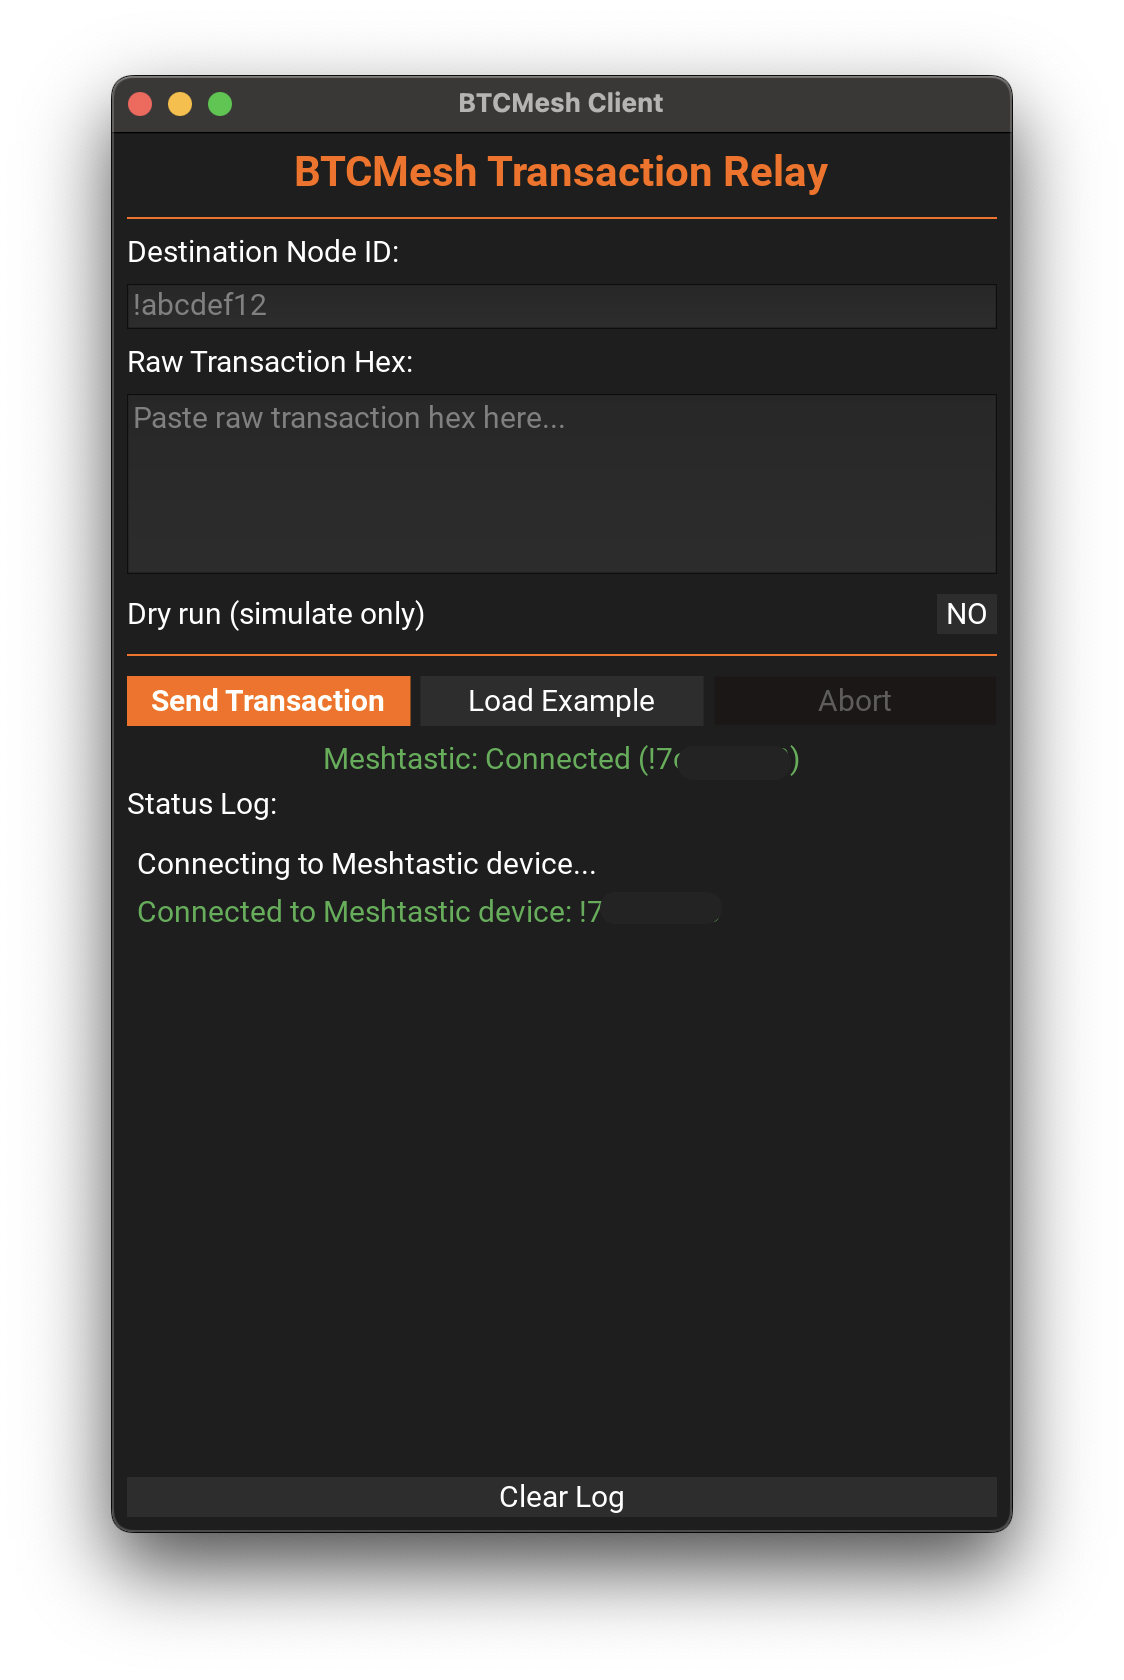
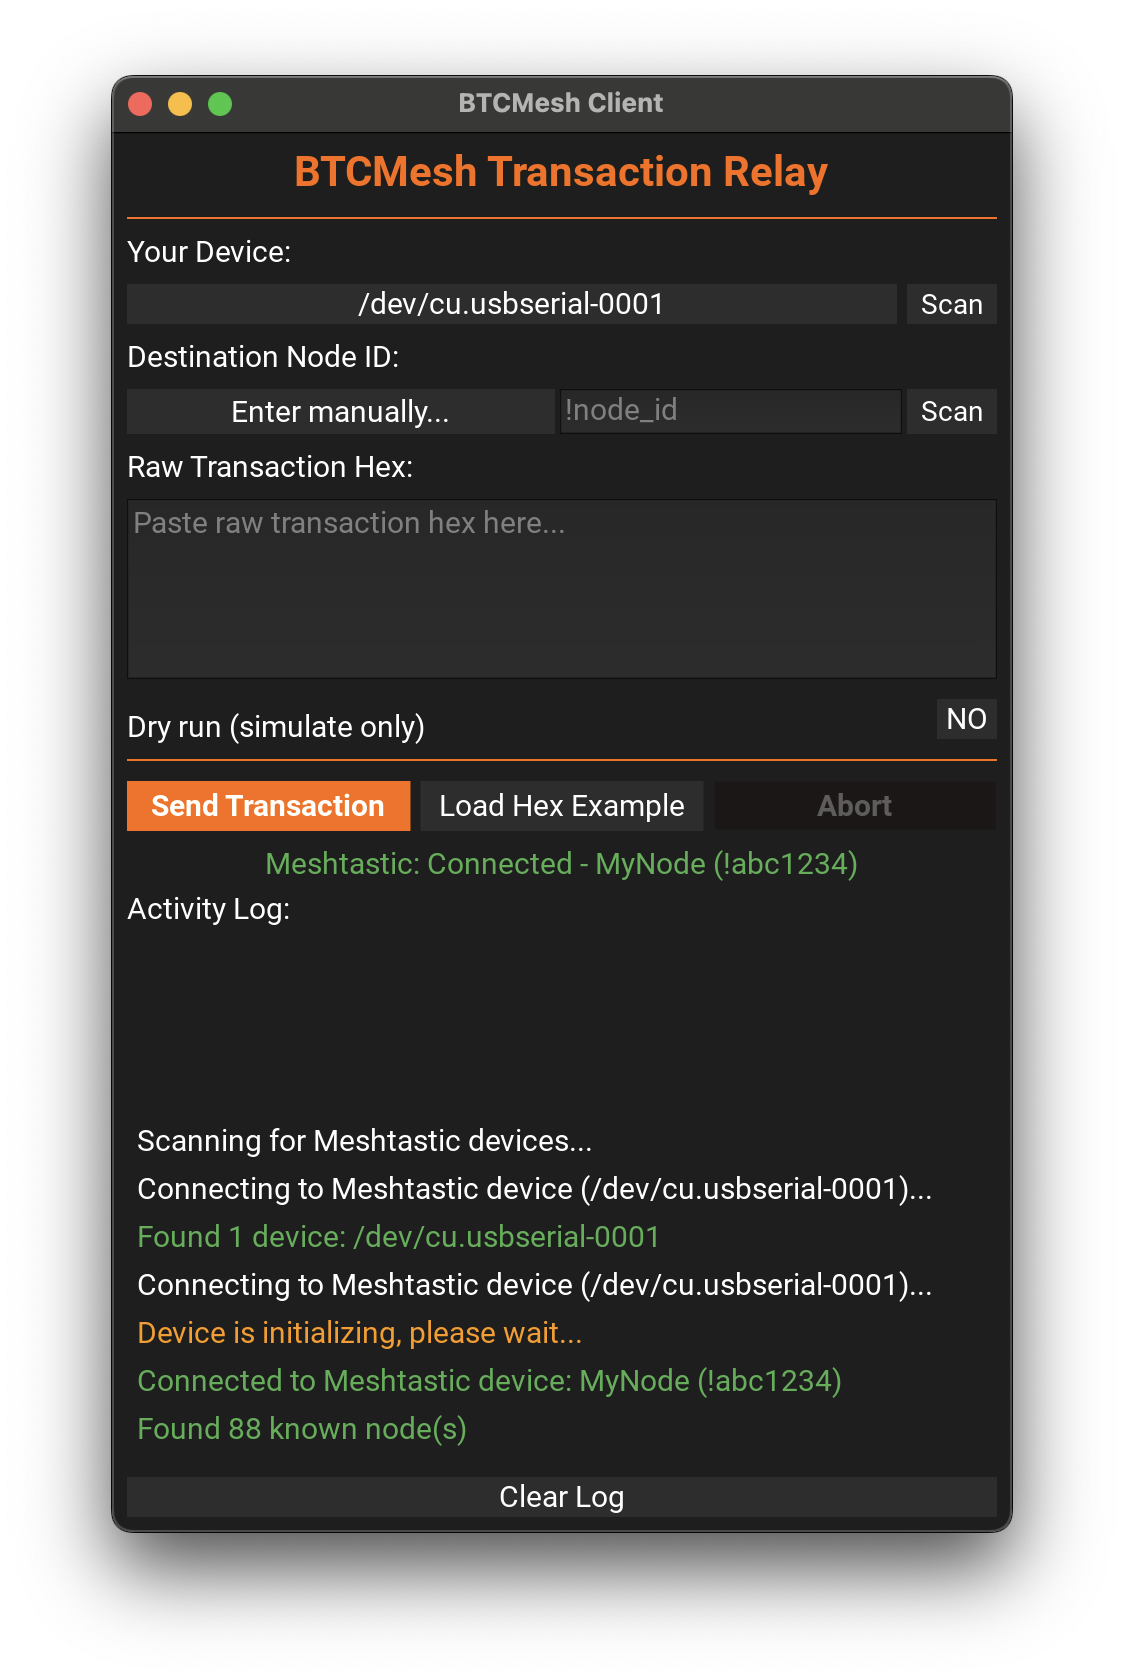
updated README with new GUI implementations

diff --git a/README.md b/README.md
@@ -24,10 +24,13 @@ btcmesh/
 ├── btcmesh_cli.py         # Command-line client script
 ├── btcmesh_gui.py         # Graphical user interface client
 ├── btcmesh_server.py      # Server/Relay script
+├── btcmesh_server_gui.py  # Server GUI for relay operators
 ├── core/                  # Core logic for the server/relay
 │   ├── __init__.py
 │   ├── config_loader.py   # For loading .env and other configurations
+│   ├── gui_common.py      # Shared GUI components and styling
 │   ├── logger_setup.py    # For setting up consistent logging
+│   ├── meshtastic_utils.py # Meshtastic device utilities
 │   ├── transaction_parser.py # For decoding raw Bitcoin transactions (Planned)
 │   ├── rpc_client.py      # For interacting with Bitcoin RPC
 │   └── reassembler.py     # For reassembling chunked messages
@@ -132,43 +135,46 @@ Replace `<SERVER_NODE_ID>` with the Meshtastic node ID of the machine running `b
 
 Use `python btcmesh_cli.py --help` for more options, such as `--dry-run` to simulate sending without actually transmitting over LoRa.
 
-## Running the GUI (`btcmesh_gui.py`)
+## Running the Client GUI (`btcmesh_gui.py`)
 
-The GUI provides a user-friendly graphical interface for sending Bitcoin transactions over the Meshtastic LoRa mesh network. It is just a wrapper around the CLI with visual feedback and easy-to-use controls.
+The GUI provides a user-friendly graphical interface for sending Bitcoin transactions over the Meshtastic LoRa mesh network. It wraps the CLI with visual feedback and easy-to-use controls.
 
-### Starting the GUI
+### Starting the Client GUI
 
 ```bash
 python btcmesh_gui.py
 ```
 
-### GUI Features
+### Client GUI Features
 
-- **Connection Status**: Displays Meshtastic device connection status with color-coded indicators (green = connected, red = failed)
+- **Device Selection**: Dropdown to select from multiple connected Meshtastic devices with scan/refresh capability
+- **Connection Status**: Displays connected device name and node ID with color-coded indicators
+- **Known Nodes Dropdown**: Select destination from previously seen mesh nodes
 - **Transaction Input**: Text fields for destination node ID and raw transaction hex
-- **Dry Run Toggle**: Test your transaction without actually broadcasting
+- **Dry Run Toggle**: Test your transaction without actually broadcasting (ON/OFF indicator)
 - **Real-time Status Log**: Color-coded scrollable log showing transaction progress
-- **Success Popup**: Confirmation popup with TXID when transaction is successfully broadcast
+- **Success Popup**: Styled confirmation popup with TXID and copy-to-clipboard button
 - **Abort Button**: Cancel a transaction in progress
 - **Load Example**: Quick-fill example data for testing
+- **Disabled Controls During Send**: Input fields are locked while transaction is in progress
 
-### GUI Layout
+### Client GUI Layout
 
-<img src="project/images/gui_main.png" width="500" alt="BTCMesh GUI Main Window">
+<img src="project/images/gui_main.png" width="500" alt="BTCMesh Client GUI Main Window">
 
-*Main window showing connection status, input fields, and status log*
+*Main window showing device selection, connection status, destination dropdown, and input fields*
 
-<img src="project/images/gui_send.png" width="500" alt="BTCMesh GUI Main Window sending transaction">
+<img src="project/images/gui_send.png" width="500" alt="BTCMesh Client GUI sending transaction">
 
-*Main window in action trying to send a transaction in chunks to NodeID*
+*Main window in action sending a transaction in chunks to the relay server*
 
 ### Usage Instructions
 
-1. **Connect your Meshtastic device** - The GUI will automatically attempt to connect on startup. The connection status indicator shows the result.
+1. **Select your Meshtastic device** - Use the device dropdown to select from available devices. Click "Scan" to refresh the list.
 
-2. **Enter destination** - Type the relay server's Meshtastic node ID (e.g., `!abcdef12`) in the Destination field.
+2. **Select or enter destination** - Choose a known node from the dropdown or manually type the relay server's Meshtastic node ID (e.g., `!abcdef12`).
 
-3. **Enter transaction hex** - Paste your raw Bitcoin transaction hex string in the Transaction Hex field.
+3. **Enter transaction hex** - Paste your raw Bitcoin transaction hex string or use the "Paste" button to paste from clipboard.
 
 4. **Toggle Dry Run** (optional) - Enable dry run mode to test without actually transmitting over LoRa.
 
@@ -179,7 +185,52 @@ python btcmesh_gui.py
    - Orange messages: Warnings
    - Red messages: Errors
 
-7. **Receive confirmation** - On successful broadcast, a popup displays the transaction ID (TXID).
+7. **Receive confirmation** - On successful broadcast, a styled popup displays the transaction ID (TXID) with a copy button.
+
+## Running the Server GUI (`btcmesh_server_gui.py`)
+
+The Server GUI provides a graphical interface for relay operators to run and monitor the BTCMesh relay server.
+
+### Starting the Server GUI
+
+```bash
+python btcmesh_server_gui.py
+```
+
+### Server GUI Features
+
+- **Start/Stop Controls**: One-click buttons to start and stop the relay server
+- **Network Badge**: Displays the connected Bitcoin network (MAINNET/TESTNET3/TESTNET4/SIGNET) with color-coded badge
+- **Bitcoin RPC Status**: Shows connection status to Bitcoin Core node with host information and Tor indicator
+- **Meshtastic Status**: Shows device connection status with node ID and device path
+- **Activity Log**: Real-time color-coded log of all server events
+- **Clear Log**: Button to clear the activity log
+
+### Server GUI Layout
+
+<img src="project/images/server_gui_main.png" width="500" alt="BTCMesh Server GUI Main Window">
+
+*Server GUI showing status indicators for Network, Bitcoin RPC, and Meshtastic connections*
+
+The Server GUI displays:
+- **Network**: Current Bitcoin network (orange for mainnet, blue for testnet, purple for signet)
+- **Bitcoin RPC**: Connection status with host:port (or `*.onion [Tor]` for Tor connections)
+- **Meshtastic**: Device connection status with node ID and device path
+
+### Server Usage Instructions
+
+1. **Configure your `.env` file** - Ensure Bitcoin RPC credentials and Meshtastic settings are configured.
+
+2. **Click Start Server** - The server will initialize connections to Meshtastic and Bitcoin RPC.
+
+3. **Monitor status indicators**:
+   - Network badge shows which Bitcoin network you're connected to
+   - Green indicators show successful connections
+   - Red indicators show connection failures
+
+4. **Watch the activity log** - All server events appear with color-coded messages.
+
+5. **Click Stop Server** - Gracefully shuts down the relay server.
 
 ## Tor Setup
 
